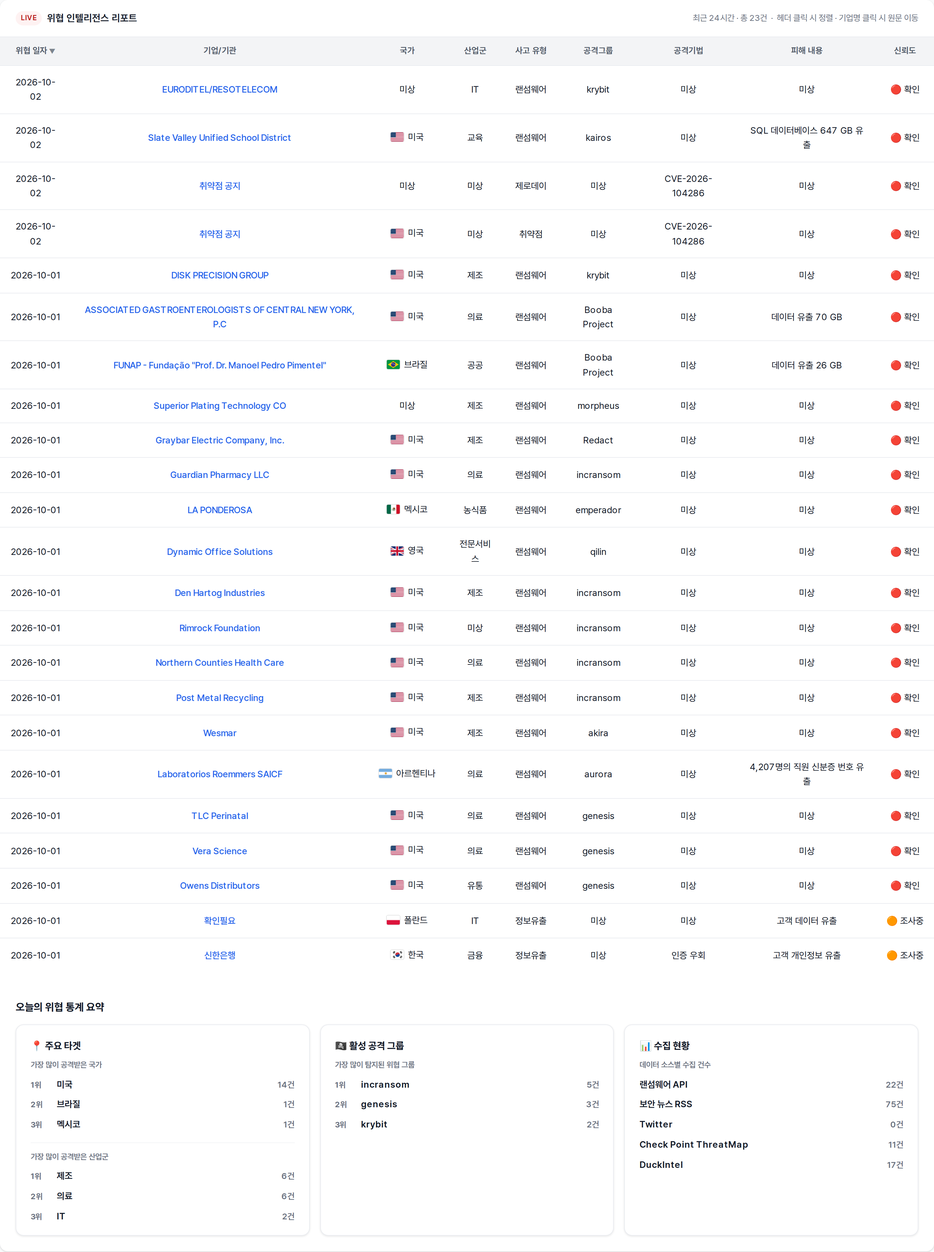
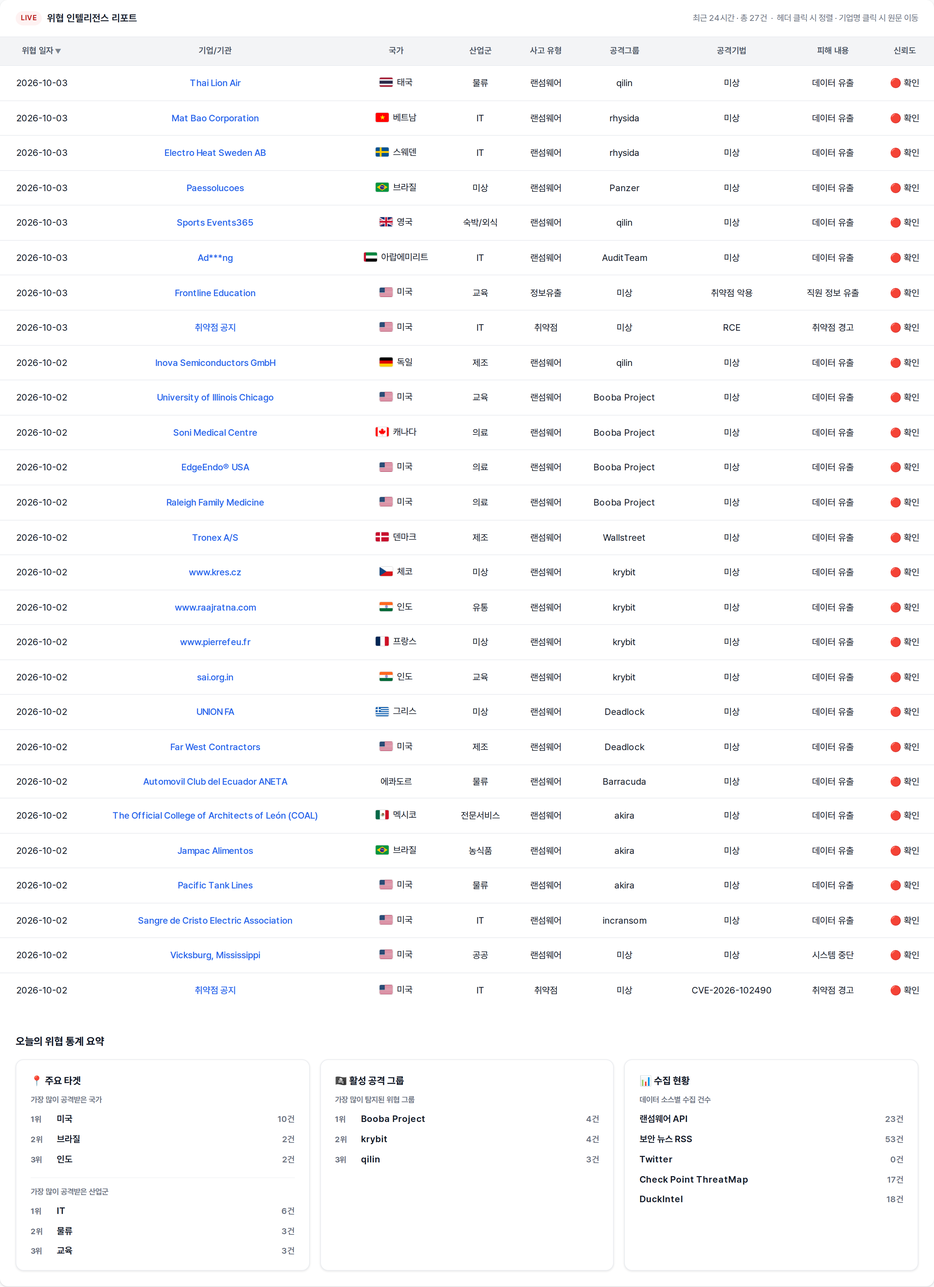
deploy: 9c533ad8fcaa3f846a31aadab046301a26f1192c

diff --git a/index.html b/index.html
@@ -3,7 +3,7 @@
 <head>
   <meta charset="UTF-8" />
   <meta name="viewport" content="width=device-width, initial-scale=1.0" />
-  <title>🚨 2026년 10월 02일 국내/해외 사이버 위협 현황</title>
+  <title>🚨 2026년 10월 03일 국내/해외 사이버 위협 현황</title>
   <link rel="preconnect" href="https://cdn.jsdelivr.net" />
   <link href="https://cdn.jsdelivr.net/gh/orioncactus/pretendard/dist/web/static/pretendard.css" rel="stylesheet" />
   <style>
@@ -253,7 +253,7 @@
 </head>
 <body>
   <div class="page-header">
-    <h1 class="page-title">🚨 2026년 10월 02일 국내/해외 사이버 위협 현황</h1>
+    <h1 class="page-title">🚨 2026년 10월 03일 국내/해외 사이버 위협 현황</h1>
   </div>
 
   <div class="dashboard">
@@ -261,35 +261,39 @@
     <div class="card-header">
       <span class="badge">LIVE</span>
       <span class="card-title">위협 인텔리전스 리포트</span>
-      <span class="card-count">최근 24시간 · 총 23건 &nbsp;·&nbsp; 헤더 클릭 시 정렬 · 기업명 클릭 시 원문 이동</span>
+      <span class="card-count">최근 24시간 · 총 27건 &nbsp;·&nbsp; 헤더 클릭 시 정렬 · 기업명 클릭 시 원문 이동</span>
     </div>
     <div class="table-wrap" style="overflow-x: auto; -webkit-overflow-scrolling: touch;">
       <table id="threat-table">
         <thead><tr><th onclick="sortTable(0)" data-col="0" class="sort-desc">위협 일자</th><th onclick="sortTable(1)" data-col="1">기업/기관</th><th onclick="sortTable(2)" data-col="2">국가</th><th onclick="sortTable(3)" data-col="3">산업군</th><th onclick="sortTable(4)" data-col="4">사고 유형</th><th onclick="sortTable(5)" data-col="5">공격그룹</th><th onclick="sortTable(6)" data-col="6">공격기법</th><th onclick="sortTable(7)" data-col="7">피해 내용</th><th onclick="sortTable(8)" data-col="8">신뢰도</th></tr></thead>
         <tbody>
-<tr><td>2026-10-02</td><td><a href="https://www.ransomware.live/id/RVVST0RJVEVML1JFU09URUxFQ09NQGtyeWJpdA==" target="_blank" rel="noopener noreferrer">EURODITEL/RESOTELECOM</a></td><td class="country"><span class="country-cell">미상</span></td><td>IT</td><td>랜섬웨어</td><td>krybit</td><td>미상</td><td>미상</td><td>🔴 확인</td></tr>
-<tr><td>2026-10-02</td><td><a href="https://www.ransomware.live/id/U2xhdGUgVmFsbGV5IFVuaWZpZWQgU2Nob29sIERpc3RyaWN0QGthaXJvcw==" target="_blank" rel="noopener noreferrer">Slate Valley Unified School District</a></td><td class="country"><span class="country-cell"><img class="flag" src="https://flagcdn.com/w40/us.png" alt="미국" width="20" height="14" />미국</span></td><td>교육</td><td>랜섬웨어</td><td>kairos</td><td>미상</td><td>SQL 데이터베이스 647 GB 유출</td><td>🔴 확인</td></tr>
-<tr><td>2026-10-02</td><td><a href="https://www.bleepingcomputer.com/news/security/fortinet-warns-of-critical-fortimail-flaw-exploited-in-zero-day-attacks/" target="_blank" rel="noopener noreferrer">취약점 공지</a></td><td class="country"><span class="country-cell">미상</span></td><td>미상</td><td>제로데이</td><td>미상</td><td>CVE-2026-104286</td><td>미상</td><td>🔴 확인</td></tr>
-<tr><td>2026-10-02</td><td><a href="https://nvd.nist.gov/vuln/detail/CVE-2026-104286" target="_blank" rel="noopener noreferrer">취약점 공지</a></td><td class="country"><span class="country-cell"><img class="flag" src="https://flagcdn.com/w40/us.png" alt="미국" width="20" height="14" />미국</span></td><td>미상</td><td>취약점</td><td>미상</td><td>CVE-2026-104286</td><td>미상</td><td>🔴 확인</td></tr>
-<tr><td>2026-10-01</td><td><a href="https://www.ransomware.live/id/RElTSyBQUkVDSVNJT04gR1JPVVAgLSBkaXNrcHJlY2lzaW9uLmNvbUBrcnliaXQ=" target="_blank" rel="noopener noreferrer">DISK PRECISION GROUP</a></td><td class="country"><span class="country-cell"><img class="flag" src="https://flagcdn.com/w40/us.png" alt="미국" width="20" height="14" />미국</span></td><td>제조</td><td>랜섬웨어</td><td>krybit</td><td>미상</td><td>미상</td><td>🔴 확인</td></tr>
-<tr><td>2026-10-01</td><td><a href="https://www.ransomware.live/id/QVNTT0NJQVRFRCBHQVNUUk9FTlRFUk9MT0dJU1RTIE9GIENFTlRSQUwgTkVXIFlPUkssIFAuQ0BCb29iYSBQcm9qZWN0" target="_blank" rel="noopener noreferrer">ASSOCIATED GASTROENTEROLOGISTS OF CENTRAL NEW YORK, P.C</a></td><td class="country"><span class="country-cell"><img class="flag" src="https://flagcdn.com/w40/us.png" alt="미국" width="20" height="14" />미국</span></td><td>의료</td><td>랜섬웨어</td><td>Booba Project</td><td>미상</td><td>데이터 유출 70 GB</td><td>🔴 확인</td></tr>
-<tr><td>2026-10-01</td><td><a href="https://www.ransomware.live/id/RlVOQVAgLSBGdW5kYcOnw6NvICJQcm9mLiBEci4gTWFub2VsIFBlZHJvIFBpbWVudGVsIkBCb29iYSBQcm9qZWN0" target="_blank" rel="noopener noreferrer">FUNAP - Fundação &quot;Prof. Dr. Manoel Pedro Pimentel&quot;</a></td><td class="country"><span class="country-cell"><img class="flag" src="https://flagcdn.com/w40/br.png" alt="브라질" width="20" height="14" />브라질</span></td><td>공공</td><td>랜섬웨어</td><td>Booba Project</td><td>미상</td><td>데이터 유출 26 GB</td><td>🔴 확인</td></tr>
-<tr><td>2026-10-01</td><td><a href="https://www.ransomware.live/id/U3VwZXJpb3IgUGxhdGluZyBUZWNobm9sb2d5IENPQG1vcnBoZXVz" target="_blank" rel="noopener noreferrer">Superior Plating Technology CO</a></td><td class="country"><span class="country-cell">미상</span></td><td>제조</td><td>랜섬웨어</td><td>morpheus</td><td>미상</td><td>미상</td><td>🔴 확인</td></tr>
-<tr><td>2026-10-01</td><td><a href="https://www.ransomware.live/id/R3JheWJhciBFbGVjdHJpYyBDb21wYW55LCBJbmMuQFJlZGFjdA==" target="_blank" rel="noopener noreferrer">Graybar Electric Company, Inc.</a></td><td class="country"><span class="country-cell"><img class="flag" src="https://flagcdn.com/w40/us.png" alt="미국" width="20" height="14" />미국</span></td><td>제조</td><td>랜섬웨어</td><td>Redact</td><td>미상</td><td>미상</td><td>🔴 확인</td></tr>
-<tr><td>2026-10-01</td><td><a href="https://www.ransomware.live/id/R3VhcmRpYW4gUGhhcm1hY3kgTExDQGluY3JhbnNvbQ==" target="_blank" rel="noopener noreferrer">Guardian Pharmacy LLC</a></td><td class="country"><span class="country-cell"><img class="flag" src="https://flagcdn.com/w40/us.png" alt="미국" width="20" height="14" />미국</span></td><td>의료</td><td>랜섬웨어</td><td>incransom</td><td>미상</td><td>미상</td><td>🔴 확인</td></tr>
-<tr><td>2026-10-01</td><td><a href="https://www.ransomware.live/id/TEEgUE9OREVST1NBQGVtcGVyYWRvcg==" target="_blank" rel="noopener noreferrer">LA PONDEROSA</a></td><td class="country"><span class="country-cell"><img class="flag" src="https://flagcdn.com/w40/mx.png" alt="멕시코" width="20" height="14" />멕시코</span></td><td>농식품</td><td>랜섬웨어</td><td>emperador</td><td>미상</td><td>미상</td><td>🔴 확인</td></tr>
-<tr><td>2026-10-01</td><td><a href="https://www.ransomware.live/id/RHluYW1pYyBPZmZpY2UgU29sdXRpb25zQHFpbGlu" target="_blank" rel="noopener noreferrer">Dynamic Office Solutions</a></td><td class="country"><span class="country-cell"><img class="flag" src="https://flagcdn.com/w40/gb.png" alt="영국" width="20" height="14" />영국</span></td><td>전문서비스</td><td>랜섬웨어</td><td>qilin</td><td>미상</td><td>미상</td><td>🔴 확인</td></tr>
-<tr><td>2026-10-01</td><td><a href="https://www.ransomware.live/id/RGVuIEhhcnRvZyBJbmR1c3RyaWVzQGluY3JhbnNvbQ==" target="_blank" rel="noopener noreferrer">Den Hartog Industries</a></td><td class="country"><span class="country-cell"><img class="flag" src="https://flagcdn.com/w40/us.png" alt="미국" width="20" height="14" />미국</span></td><td>제조</td><td>랜섬웨어</td><td>incransom</td><td>미상</td><td>미상</td><td>🔴 확인</td></tr>
-<tr><td>2026-10-01</td><td><a href="https://www.ransomware.live/id/Umltcm9jayBGb3VuZGF0aW9uQGluY3JhbnNvbQ==" target="_blank" rel="noopener noreferrer">Rimrock Foundation</a></td><td class="country"><span class="country-cell"><img class="flag" src="https://flagcdn.com/w40/us.png" alt="미국" width="20" height="14" />미국</span></td><td>미상</td><td>랜섬웨어</td><td>incransom</td><td>미상</td><td>미상</td><td>🔴 확인</td></tr>
-<tr><td>2026-10-01</td><td><a href="https://www.ransomware.live/id/Tm9ydGhlcm4gQ291bnRpZXMgSGVhbHRoIENhcmVAaW5jcmFuc29t" target="_blank" rel="noopener noreferrer">Northern Counties Health Care</a></td><td class="country"><span class="country-cell"><img class="flag" src="https://flagcdn.com/w40/us.png" alt="미국" width="20" height="14" />미국</span></td><td>의료</td><td>랜섬웨어</td><td>incransom</td><td>미상</td><td>미상</td><td>🔴 확인</td></tr>
-<tr><td>2026-10-01</td><td><a href="https://www.ransomware.live/id/UG9zdCBNZXRhbCBSZWN5Y2xpbmdAaW5jcmFuc29t" target="_blank" rel="noopener noreferrer">Post Metal Recycling</a></td><td class="country"><span class="country-cell"><img class="flag" src="https://flagcdn.com/w40/us.png" alt="미국" width="20" height="14" />미국</span></td><td>제조</td><td>랜섬웨어</td><td>incransom</td><td>미상</td><td>미상</td><td>🔴 확인</td></tr>
-<tr><td>2026-10-01</td><td><a href="https://www.ransomware.live/id/V2VzbWFyQGFraXJh" target="_blank" rel="noopener noreferrer">Wesmar</a></td><td class="country"><span class="country-cell"><img class="flag" src="https://flagcdn.com/w40/us.png" alt="미국" width="20" height="14" />미국</span></td><td>제조</td><td>랜섬웨어</td><td>akira</td><td>미상</td><td>미상</td><td>🔴 확인</td></tr>
-<tr><td>2026-10-01</td><td><a href="https://www.ransomware.live/id/TGFib3JhdG9yaW9zIFJvZW1tZXJzIFNBSUNGQGF1cm9yYQ==" target="_blank" rel="noopener noreferrer">Laboratorios Roemmers SAICF</a></td><td class="country"><span class="country-cell"><img class="flag" src="https://flagcdn.com/w40/ar.png" alt="아르헨티나" width="20" height="14" />아르헨티나</span></td><td>의료</td><td>랜섬웨어</td><td>aurora</td><td>미상</td><td>4,207명의 직원 신분증 번호 유출</td><td>🔴 확인</td></tr>
-<tr><td>2026-10-01</td><td><a href="https://www.ransomware.live/id/VExDIFBlcmluYXRhbEBnZW5lc2lz" target="_blank" rel="noopener noreferrer">TLC Perinatal</a></td><td class="country"><span class="country-cell"><img class="flag" src="https://flagcdn.com/w40/us.png" alt="미국" width="20" height="14" />미국</span></td><td>의료</td><td>랜섬웨어</td><td>genesis</td><td>미상</td><td>미상</td><td>🔴 확인</td></tr>
-<tr><td>2026-10-01</td><td><a href="https://www.ransomware.live/id/VmVyYSBTY2llbmNlQGdlbmVzaXM=" target="_blank" rel="noopener noreferrer">Vera Science</a></td><td class="country"><span class="country-cell"><img class="flag" src="https://flagcdn.com/w40/us.png" alt="미국" width="20" height="14" />미국</span></td><td>의료</td><td>랜섬웨어</td><td>genesis</td><td>미상</td><td>미상</td><td>🔴 확인</td></tr>
-<tr><td>2026-10-01</td><td><a href="https://www.ransomware.live/id/T3dlbnMgRGlzdHJpYnV0b3JzQGdlbmVzaXM=" target="_blank" rel="noopener noreferrer">Owens Distributors</a></td><td class="country"><span class="country-cell"><img class="flag" src="https://flagcdn.com/w40/us.png" alt="미국" width="20" height="14" />미국</span></td><td>유통</td><td>랜섬웨어</td><td>genesis</td><td>미상</td><td>미상</td><td>🔴 확인</td></tr>
-<tr><td>2026-10-01</td><td><a href="https://therecord.media/poland-cyberattack-invoice-software" target="_blank" rel="noopener noreferrer">확인필요</a></td><td class="country"><span class="country-cell"><img class="flag" src="https://flagcdn.com/w40/pl.png" alt="폴란드" width="20" height="14" />폴란드</span></td><td>IT</td><td>정보유출</td><td>미상</td><td>미상</td><td>고객 데이터 유출</td><td>🟠 조사중</td></tr>
-<tr><td>2026-10-01</td><td><a href="https://www.dailysecu.com/news/articleView.html?idxno=208680" target="_blank" rel="noopener noreferrer">신한은행</a></td><td class="country"><span class="country-cell"><img class="flag" src="https://flagcdn.com/w40/kr.png" alt="한국" width="20" height="14" />한국</span></td><td>금융</td><td>정보유출</td><td>미상</td><td>인증 우회</td><td>고객 개인정보 유출</td><td>🟠 조사중</td></tr>
+<tr><td>2026-10-03</td><td><a href="https://www.ransomware.live/id/VGhhaSBMaW9uIEFpckBxaWxpbg==" target="_blank" rel="noopener noreferrer">Thai Lion Air</a></td><td class="country"><span class="country-cell"><img class="flag" src="https://flagcdn.com/w40/th.png" alt="태국" width="20" height="14" />태국</span></td><td>물류</td><td>랜섬웨어</td><td>qilin</td><td>미상</td><td>데이터 유출</td><td>🔴 확인</td></tr>
+<tr><td>2026-10-03</td><td><a href="https://www.ransomware.live/id/TWF0IEJhbyBDb3Jwb3JhdGlvbkByaHlzaWRh" target="_blank" rel="noopener noreferrer">Mat Bao Corporation</a></td><td class="country"><span class="country-cell"><img class="flag" src="https://flagcdn.com/w40/vn.png" alt="베트남" width="20" height="14" />베트남</span></td><td>IT</td><td>랜섬웨어</td><td>rhysida</td><td>미상</td><td>데이터 유출</td><td>🔴 확인</td></tr>
+<tr><td>2026-10-03</td><td><a href="https://www.ransomware.live/id/RWxlY3RybyBIZWF0IFN3ZWRlbiBBQkByaHlzaWRh" target="_blank" rel="noopener noreferrer">Electro Heat Sweden AB</a></td><td class="country"><span class="country-cell"><img class="flag" src="https://flagcdn.com/w40/se.png" alt="스웨덴" width="20" height="14" />스웨덴</span></td><td>IT</td><td>랜섬웨어</td><td>rhysida</td><td>미상</td><td>데이터 유출</td><td>🔴 확인</td></tr>
+<tr><td>2026-10-03</td><td><a href="https://www.ransomware.live/id/UGFlc3NvbHVjb2VzQFBhbnplcg==" target="_blank" rel="noopener noreferrer">Paessolucoes</a></td><td class="country"><span class="country-cell"><img class="flag" src="https://flagcdn.com/w40/br.png" alt="브라질" width="20" height="14" />브라질</span></td><td>미상</td><td>랜섬웨어</td><td>Panzer</td><td>미상</td><td>데이터 유출</td><td>🔴 확인</td></tr>
+<tr><td>2026-10-03</td><td><a href="https://www.ransomware.live/id/U3BvcnRzIEV2ZW50czM2NUBxaWxpbg==" target="_blank" rel="noopener noreferrer">Sports Events365</a></td><td class="country"><span class="country-cell"><img class="flag" src="https://flagcdn.com/w40/gb.png" alt="영국" width="20" height="14" />영국</span></td><td>숙박/외식</td><td>랜섬웨어</td><td>qilin</td><td>미상</td><td>데이터 유출</td><td>🔴 확인</td></tr>
+<tr><td>2026-10-03</td><td><a href="https://www.ransomware.live/id/QWQqKipuZ0BBdWRpdFRlYW0=" target="_blank" rel="noopener noreferrer">Ad***ng</a></td><td class="country"><span class="country-cell"><img class="flag" src="https://flagcdn.com/w40/ae.png" alt="아랍에미리트" width="20" height="14" />아랍에미리트</span></td><td>IT</td><td>랜섬웨어</td><td>AuditTeam</td><td>미상</td><td>데이터 유출</td><td>🔴 확인</td></tr>
+<tr><td>2026-10-03</td><td><a href="https://www.bleepingcomputer.com/news/security/frontline-education-data-breach-impacts-school-district-employees/" target="_blank" rel="noopener noreferrer">Frontline Education</a></td><td class="country"><span class="country-cell"><img class="flag" src="https://flagcdn.com/w40/us.png" alt="미국" width="20" height="14" />미국</span></td><td>교육</td><td>정보유출</td><td>미상</td><td>취약점 악용</td><td>직원 정보 유출</td><td>🔴 확인</td></tr>
+<tr><td>2026-10-03</td><td><a href="https://www.bleepingcomputer.com/news/security/gitlab-warns-of-critical-rce-vulnerability-in-ai-gateway-service/" target="_blank" rel="noopener noreferrer">취약점 공지</a></td><td class="country"><span class="country-cell"><img class="flag" src="https://flagcdn.com/w40/us.png" alt="미국" width="20" height="14" />미국</span></td><td>IT</td><td>취약점</td><td>미상</td><td>RCE</td><td>취약점 경고</td><td>🔴 확인</td></tr>
+<tr><td>2026-10-02</td><td><a href="https://www.ransomware.live/id/SW5vdmEgU2VtaWNvbmR1Y3RvcnMgR21iSEBxaWxpbg==" target="_blank" rel="noopener noreferrer">Inova Semiconductors GmbH</a></td><td class="country"><span class="country-cell"><img class="flag" src="https://flagcdn.com/w40/de.png" alt="독일" width="20" height="14" />독일</span></td><td>제조</td><td>랜섬웨어</td><td>qilin</td><td>미상</td><td>데이터 유출</td><td>🔴 확인</td></tr>
+<tr><td>2026-10-02</td><td><a href="https://www.ransomware.live/id/VW5pdmVyc2l0eSBvZiBJbGxpbm9pcyBDaGljYWdvQEJvb2JhIFByb2plY3Q=" target="_blank" rel="noopener noreferrer">University of Illinois Chicago</a></td><td class="country"><span class="country-cell"><img class="flag" src="https://flagcdn.com/w40/us.png" alt="미국" width="20" height="14" />미국</span></td><td>교육</td><td>랜섬웨어</td><td>Booba Project</td><td>미상</td><td>데이터 유출</td><td>🔴 확인</td></tr>
+<tr><td>2026-10-02</td><td><a href="https://www.ransomware.live/id/U29uaSBNZWRpY2FsIENlbnRyZUBCb29iYSBQcm9qZWN0" target="_blank" rel="noopener noreferrer">Soni Medical Centre</a></td><td class="country"><span class="country-cell"><img class="flag" src="https://flagcdn.com/w40/ca.png" alt="캐나다" width="20" height="14" />캐나다</span></td><td>의료</td><td>랜섬웨어</td><td>Booba Project</td><td>미상</td><td>데이터 유출</td><td>🔴 확인</td></tr>
+<tr><td>2026-10-02</td><td><a href="https://www.ransomware.live/id/RWRnZUVuZG/CriBVU0FAQm9vYmEgUHJvamVjdA==" target="_blank" rel="noopener noreferrer">EdgeEndo® USA</a></td><td class="country"><span class="country-cell"><img class="flag" src="https://flagcdn.com/w40/us.png" alt="미국" width="20" height="14" />미국</span></td><td>의료</td><td>랜섬웨어</td><td>Booba Project</td><td>미상</td><td>데이터 유출</td><td>🔴 확인</td></tr>
+<tr><td>2026-10-02</td><td><a href="https://www.ransomware.live/id/UmFsZWlnaCBGYW1pbHkgTWVkaWNpbmVAQm9vYmEgUHJvamVjdA==" target="_blank" rel="noopener noreferrer">Raleigh Family Medicine</a></td><td class="country"><span class="country-cell"><img class="flag" src="https://flagcdn.com/w40/us.png" alt="미국" width="20" height="14" />미국</span></td><td>의료</td><td>랜섬웨어</td><td>Booba Project</td><td>미상</td><td>데이터 유출</td><td>🔴 확인</td></tr>
+<tr><td>2026-10-02</td><td><a href="https://www.ransomware.live/id/VHJvbmV4IEEvU0BXYWxsc3RyZWV0" target="_blank" rel="noopener noreferrer">Tronex A/S</a></td><td class="country"><span class="country-cell"><img class="flag" src="https://flagcdn.com/w40/dk.png" alt="덴마크" width="20" height="14" />덴마크</span></td><td>제조</td><td>랜섬웨어</td><td>Wallstreet</td><td>미상</td><td>데이터 유출</td><td>🔴 확인</td></tr>
+<tr><td>2026-10-02</td><td><a href="https://www.ransomware.live/id/d3d3LmtyZXMuY3pAa3J5Yml0" target="_blank" rel="noopener noreferrer">www.kres.cz</a></td><td class="country"><span class="country-cell"><img class="flag" src="https://flagcdn.com/w40/cz.png" alt="체코" width="20" height="14" />체코</span></td><td>미상</td><td>랜섬웨어</td><td>krybit</td><td>미상</td><td>데이터 유출</td><td>🔴 확인</td></tr>
+<tr><td>2026-10-02</td><td><a href="https://www.ransomware.live/id/d3d3LnJhYWpyYXRuYS5jb21Aa3J5Yml0" target="_blank" rel="noopener noreferrer">www.raajratna.com</a></td><td class="country"><span class="country-cell"><img class="flag" src="https://flagcdn.com/w40/in.png" alt="인도" width="20" height="14" />인도</span></td><td>유통</td><td>랜섬웨어</td><td>krybit</td><td>미상</td><td>데이터 유출</td><td>🔴 확인</td></tr>
+<tr><td>2026-10-02</td><td><a href="https://www.ransomware.live/id/d3d3LnBpZXJyZWZldS5mckBrcnliaXQ=" target="_blank" rel="noopener noreferrer">www.pierrefeu.fr</a></td><td class="country"><span class="country-cell"><img class="flag" src="https://flagcdn.com/w40/fr.png" alt="프랑스" width="20" height="14" />프랑스</span></td><td>미상</td><td>랜섬웨어</td><td>krybit</td><td>미상</td><td>데이터 유출</td><td>🔴 확인</td></tr>
+<tr><td>2026-10-02</td><td><a href="https://www.ransomware.live/id/c2FpLm9yZy5pbkBrcnliaXQ=" target="_blank" rel="noopener noreferrer">sai.org.in</a></td><td class="country"><span class="country-cell"><img class="flag" src="https://flagcdn.com/w40/in.png" alt="인도" width="20" height="14" />인도</span></td><td>교육</td><td>랜섬웨어</td><td>krybit</td><td>미상</td><td>데이터 유출</td><td>🔴 확인</td></tr>
+<tr><td>2026-10-02</td><td><a href="https://www.ransomware.live/id/VU5JT04gRkFARGVhZGxvY2s=" target="_blank" rel="noopener noreferrer">UNION FA</a></td><td class="country"><span class="country-cell"><img class="flag" src="https://flagcdn.com/w40/gr.png" alt="그리스" width="20" height="14" />그리스</span></td><td>미상</td><td>랜섬웨어</td><td>Deadlock</td><td>미상</td><td>데이터 유출</td><td>🔴 확인</td></tr>
+<tr><td>2026-10-02</td><td><a href="https://www.ransomware.live/id/RmFyIFdlc3QgQ29udHJhY3RvcnNARGVhZGxvY2s=" target="_blank" rel="noopener noreferrer">Far West Contractors</a></td><td class="country"><span class="country-cell"><img class="flag" src="https://flagcdn.com/w40/us.png" alt="미국" width="20" height="14" />미국</span></td><td>제조</td><td>랜섬웨어</td><td>Deadlock</td><td>미상</td><td>데이터 유출</td><td>🔴 확인</td></tr>
+<tr><td>2026-10-02</td><td><a href="https://www.ransomware.live/id/QXV0b21vdmlsIENsdWIgZGVsIEVjdWFkb3IgQU5FVEFAQmFycmFjdWRh" target="_blank" rel="noopener noreferrer">Automovil Club del Ecuador ANETA</a></td><td class="country"><span class="country-cell">에콰도르</span></td><td>물류</td><td>랜섬웨어</td><td>Barracuda</td><td>미상</td><td>데이터 유출</td><td>🔴 확인</td></tr>
+<tr><td>2026-10-02</td><td><a href="https://www.ransomware.live/id/VGhlIE9mZmljaWFsIENvbGxlZ2Ugb2YgQXJjaGl0ZWN0cyBvZiBMZcOzbiAoQ09BTClAYWtpcmE=" target="_blank" rel="noopener noreferrer">The Official College of Architects of León (COAL)</a></td><td class="country"><span class="country-cell"><img class="flag" src="https://flagcdn.com/w40/mx.png" alt="멕시코" width="20" height="14" />멕시코</span></td><td>전문서비스</td><td>랜섬웨어</td><td>akira</td><td>미상</td><td>데이터 유출</td><td>🔴 확인</td></tr>
+<tr><td>2026-10-02</td><td><a href="https://www.ransomware.live/id/SmFtcGFjIEFsaW1lbnRvc0Bha2lyYQ==" target="_blank" rel="noopener noreferrer">Jampac Alimentos</a></td><td class="country"><span class="country-cell"><img class="flag" src="https://flagcdn.com/w40/br.png" alt="브라질" width="20" height="14" />브라질</span></td><td>농식품</td><td>랜섬웨어</td><td>akira</td><td>미상</td><td>데이터 유출</td><td>🔴 확인</td></tr>
+<tr><td>2026-10-02</td><td><a href="https://www.ransomware.live/id/UGFjaWZpYyBUYW5rIExpbmVzQGFraXJh" target="_blank" rel="noopener noreferrer">Pacific Tank Lines</a></td><td class="country"><span class="country-cell"><img class="flag" src="https://flagcdn.com/w40/us.png" alt="미국" width="20" height="14" />미국</span></td><td>물류</td><td>랜섬웨어</td><td>akira</td><td>미상</td><td>데이터 유출</td><td>🔴 확인</td></tr>
+<tr><td>2026-10-02</td><td><a href="https://www.ransomware.live/id/U2FuZ3JlIGRlIENyaXN0byBFbGVjdHJpYyBBc3NvY2lhdGlvbkBpbmNyYW5zb20=" target="_blank" rel="noopener noreferrer">Sangre de Cristo Electric Association</a></td><td class="country"><span class="country-cell"><img class="flag" src="https://flagcdn.com/w40/us.png" alt="미국" width="20" height="14" />미국</span></td><td>IT</td><td>랜섬웨어</td><td>incransom</td><td>미상</td><td>데이터 유출</td><td>🔴 확인</td></tr>
+<tr><td>2026-10-02</td><td><a href="https://therecord.media/vicksburg-mississippi-government-ransomware-attack" target="_blank" rel="noopener noreferrer">Vicksburg, Mississippi</a></td><td class="country"><span class="country-cell"><img class="flag" src="https://flagcdn.com/w40/us.png" alt="미국" width="20" height="14" />미국</span></td><td>공공</td><td>랜섬웨어</td><td>미상</td><td>미상</td><td>시스템 중단</td><td>🔴 확인</td></tr>
+<tr><td>2026-10-02</td><td><a href="https://nvd.nist.gov/vuln/detail/CVE-2026-102490" target="_blank" rel="noopener noreferrer">취약점 공지</a></td><td class="country"><span class="country-cell"><img class="flag" src="https://flagcdn.com/w40/us.png" alt="미국" width="20" height="14" />미국</span></td><td>IT</td><td>취약점</td><td>미상</td><td>CVE-2026-102490</td><td>취약점 경고</td><td>🔴 확인</td></tr>
         </tbody>
       </table>
     </div>
@@ -300,19 +304,19 @@
       <article class="stat-card">
         <h3 class="stat-title">📍 주요 타겟</h3>
         <p class="stat-subtitle">가장 많이 공격받은 국가</p>
-        <ol class="stat-list"><li><span class="stat-rank">1위</span><span class="stat-name">미국</span><span class="stat-count">14건</span></li><li><span class="stat-rank">2위</span><span class="stat-name">브라질</span><span class="stat-count">1건</span></li><li><span class="stat-rank">3위</span><span class="stat-name">멕시코</span><span class="stat-count">1건</span></li></ol>
+        <ol class="stat-list"><li><span class="stat-rank">1위</span><span class="stat-name">미국</span><span class="stat-count">10건</span></li><li><span class="stat-rank">2위</span><span class="stat-name">브라질</span><span class="stat-count">2건</span></li><li><span class="stat-rank">3위</span><span class="stat-name">인도</span><span class="stat-count">2건</span></li></ol>
         <p class="stat-subtitle stat-subtitle-gap">가장 많이 공격받은 산업군</p>
-        <ol class="stat-list"><li><span class="stat-rank">1위</span><span class="stat-name">제조</span><span class="stat-count">6건</span></li><li><span class="stat-rank">2위</span><span class="stat-name">의료</span><span class="stat-count">6건</span></li><li><span class="stat-rank">3위</span><span class="stat-name">IT</span><span class="stat-count">2건</span></li></ol>
+        <ol class="stat-list"><li><span class="stat-rank">1위</span><span class="stat-name">IT</span><span class="stat-count">6건</span></li><li><span class="stat-rank">2위</span><span class="stat-name">물류</span><span class="stat-count">3건</span></li><li><span class="stat-rank">3위</span><span class="stat-name">교육</span><span class="stat-count">3건</span></li></ol>
       </article>
       <article class="stat-card">
         <h3 class="stat-title">🏴☠ 활성 공격 그룹</h3>
         <p class="stat-subtitle">가장 많이 탐지된 위협 그룹</p>
-        <ol class="stat-list"><li><span class="stat-rank">1위</span><span class="stat-name">incransom</span><span class="stat-count">5건</span></li><li><span class="stat-rank">2위</span><span class="stat-name">genesis</span><span class="stat-count">3건</span></li><li><span class="stat-rank">3위</span><span class="stat-name">krybit</span><span class="stat-count">2건</span></li></ol>
+        <ol class="stat-list"><li><span class="stat-rank">1위</span><span class="stat-name">Booba Project</span><span class="stat-count">4건</span></li><li><span class="stat-rank">2위</span><span class="stat-name">krybit</span><span class="stat-count">4건</span></li><li><span class="stat-rank">3위</span><span class="stat-name">qilin</span><span class="stat-count">3건</span></li></ol>
       </article>
       <article class="stat-card">
         <h3 class="stat-title">📊 수집 현황</h3>
         <p class="stat-subtitle">데이터 소스별 수집 건수</p>
-        <ul class="stat-list stat-sources"><li><span class="stat-name">랜섬웨어 API</span><span class="stat-count">22건</span></li><li><span class="stat-name">보안 뉴스 RSS</span><span class="stat-count">75건</span></li><li><span class="stat-name">Twitter</span><span class="stat-count">0건</span></li><li><span class="stat-name">Check Point ThreatMap</span><span class="stat-count">11건</span></li><li><span class="stat-name">DuckIntel</span><span class="stat-count">17건</span></li></ul>
+        <ul class="stat-list stat-sources"><li><span class="stat-name">랜섬웨어 API</span><span class="stat-count">23건</span></li><li><span class="stat-name">보안 뉴스 RSS</span><span class="stat-count">53건</span></li><li><span class="stat-name">Twitter</span><span class="stat-count">0건</span></li><li><span class="stat-name">Check Point ThreatMap</span><span class="stat-count">17건</span></li><li><span class="stat-name">DuckIntel</span><span class="stat-count">18건</span></li></ul>
       </article>
     </div>
   </section>
